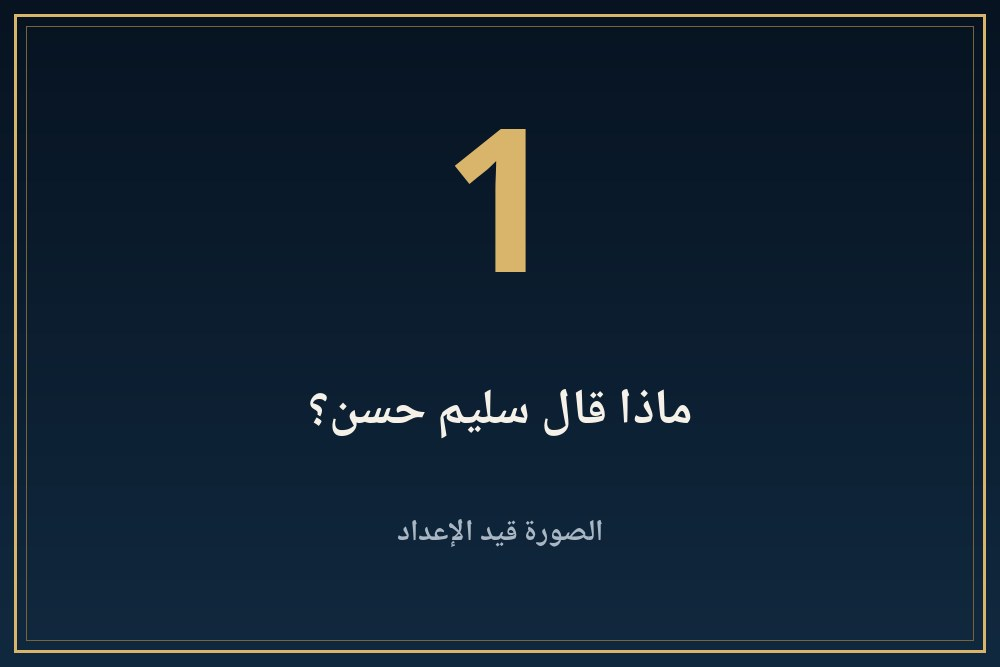
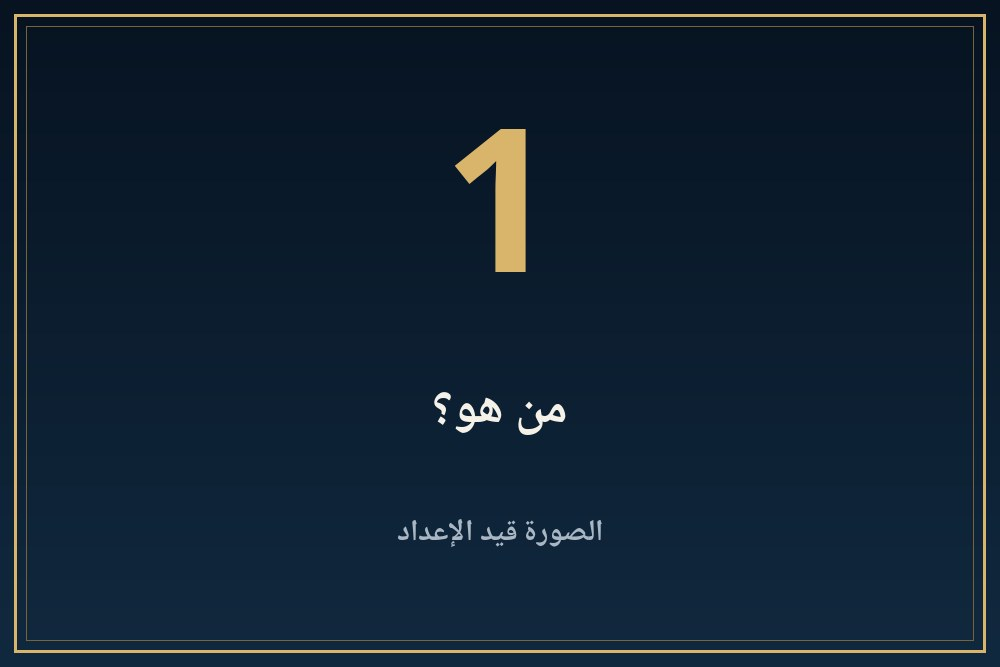
King 027: rebuilt from updated content (placeholders, audio pending)

Changed region(s): [[0.31, 0.5697, 0.713, 0.6597]]

diff --git a/kings/027-nfr-ef-ra/index.html b/kings/027-nfr-ef-ra/index.html
@@ -324,7 +324,7 @@ html[dir=ltr] #panav.open,#pash[dir=ltr] #panav.open{border-right:0!important;bo
 <div class="row"><span class="bdg v">موثّق</span><span>مذكور في مصدر مرقّم يمكن فتحه من قسم المراجع.</span></div>
 <div class="row"><span class="bdg d">محل خلاف</span><span>الصفحة نفسها تذكر أن الباحثين أو المصادر مختلفون فيه.</span></div>
 <div class="row"><span class="bdg u">لم يُتحقق منه</span><span>الصفحة تذكر أنه من مصدر واحد ولم يُتحقق منه في مصدر ثانٍ.</span></div></div>
-<div class="band" aria-hidden="true"></div><details class="acc k1" id="s1"><summary><img class="bnr" src="banners/b01.jpg?v=1" alt="" width="1000" height="667"><span class="n">1</span><span class="t">ماذا قال سليم حسن؟</span><span class="ch"></span></summary><div class="body"><button class="lbtn" type="button" disabled aria-disabled="true" style="opacity:.55;cursor:default"><svg viewBox="0 0 24 24" fill="currentColor" aria-hidden="true"><path d="M7 4.5v15a1 1 0 001.5.86l12-7.5a1 1 0 000-1.72l-12-7.5A1 1 0 007 4.5z"/></svg><span>التعليق الصوتي قريبًا</span></button><p><span class="bdg v">موثّق</span> يذكر سليم حسن (ج1 ص261) ملكين باسم «شبسس كا رع» و«نفر ف رع» ويقول: «لا نعرف عنهما شيئا». وهذه حدود ما قرأناه عنه.<sup><a href="#r1">[1]</a></sup></p></div></details><details class="acc k2" id="s2"><summary><img class="bnr" src="banners/b02.jpg?v=1" alt="" loading="lazy" width="1000" height="667"><span class="n">2</span><span class="t">لماذا الصفحة قصيرة؟</span><span class="ch"></span></summary><div class="body"><button class="lbtn" type="button" disabled aria-disabled="true" style="opacity:.55;cursor:default"><svg viewBox="0 0 24 24" fill="currentColor" aria-hidden="true"><path d="M7 4.5v15a1 1 0 001.5.86l12-7.5a1 1 0 000-1.72l-12-7.5A1 1 0 007 4.5z"/></svg><span>التعليق الصوتي قريبًا</span></button><p><span class="bdg u">لم يُتحقق منه</span> لم نجد في الكتب المصرية التي قرأناها نصا أطول عن نفر إف رع، ولم نقرأ بعد ما كتبه الأجانب عنه، فلا نذكر مدة حكمه ولا مقبرته.</p></div></details><details class="acc k3" id="s3"><summary><img class="bnr" src="banners/b03.jpg?v=1" alt="" loading="lazy" width="1000" height="667"><span class="n">3</span><span class="t">ما لا نعرفه</span><span class="ch"></span></summary><div class="body"><button class="lbtn" type="button" disabled aria-disabled="true" style="opacity:.55;cursor:default"><svg viewBox="0 0 24 24" fill="currentColor" aria-hidden="true"><path d="M7 4.5v15a1 1 0 001.5.86l12-7.5a1 1 0 000-1.72l-12-7.5A1 1 0 007 4.5z"/></svg><span>التعليق الصوتي قريبًا</span></button><p><span class="bdg u">لم يُتحقق منه</span> مدة الحكم، النسب، الآثار، سبب قلة الآثار. وسنضيف ما نقرؤه من مصادر موثوقة.</p></div></details><details class="acc k4" id="s4"><summary><img class="bnr" src="banners/b04.jpg?v=1" alt="" loading="lazy" width="1000" height="667"><span class="n">4</span><span class="t">من قال ماذا؟</span><span class="ch"></span></summary><div class="body"><button class="lbtn" type="button" disabled aria-disabled="true" style="opacity:.55;cursor:default"><svg viewBox="0 0 24 24" fill="currentColor" aria-hidden="true"><path d="M7 4.5v15a1 1 0 001.5.86l12-7.5a1 1 0 000-1.72l-12-7.5A1 1 0 007 4.5z"/></svg><span>التعليق الصوتي قريبًا</span></button><p><span class="bdg d">محل خلاف</span> ترتيب هذا الملك بين نفر إر كا رع ونيوسر رع: سليم حسن (ص261) يذكره بعد «شبسس كا رع» وقبل «نيوسر رع». ولم نقرأ ترتيبا ثانيا.<sup><a href="#r1">[1]</a></sup></p></div></details><details class="acc k4" id="refs"><summary><img class="bnr" src="banners/b05.jpg?v=1" alt="" loading="lazy" width="1000" height="667"><span class="n">5</span><span class="t">المراجع</span><span class="ch"></span></summary><div class="body"><button class="lbtn" type="button" disabled aria-disabled="true" style="opacity:.55;cursor:default"><svg viewBox="0 0 24 24" fill="currentColor" aria-hidden="true"><path d="M7 4.5v15a1 1 0 001.5.86l12-7.5a1 1 0 000-1.72l-12-7.5A1 1 0 007 4.5z"/></svg><span>التعليق الصوتي قريبًا</span></button><p><b>مصادر فتحتُ صفحاتها وقرأتها:</b></p><ol><li id="r1" dir="auto">سليم حسن، موسوعة مصر القديمة، ج1، الفصل 15: <a dir="ltr" style="display:inline-block;overflow-wrap:anywhere" href="https://archive.org/details/20201104_20201104_1559" rel="noopener" target="_blank">archive.org/details/20201104_20201104_1559</a></li></ol><div class="flag"><b>تنبيه:</b> عدد المصادر المصرية المفتوحة لهذه الصفحة واحد فقط. لا نضيف تفاصيل لم تثبت في مصدر فتحناه وقرأنا نصه، وحيث يختلف المصدران ننسب كل رأي لصاحبه.</div></div></details></article><aside class="abt" aria-label="عن هذه الصفحة"><h3>عن هذه الصفحة</h3><ul><li><b>المحتوى</b><span>جزء من موسوعة بر عنخ التعليمية. التواريخ والتفسيرات وفق المراجع المتاحة، وقد تختلف التفاصيل بين الدراسات.</span></li><li><b>الصور</b><span>صور هذه الصفحة أماكن حجز مؤقتة إلى أن تُضاف الصور الفنية.</span></li><li><b>الصوت</b><span>التعليق الصوتي قيد الإعداد.</span></li></ul></aside><a class="back" href="/kings/">← تصفح المزيد</a><a class="back" href="/">العودة إلى الرئيسية</a><dialog id="lb"><img alt=""><p></p><button type="button">إغلاق</button></dialog>
+<div class="band" aria-hidden="true"></div><details class="acc k1" id="s1"><summary><img class="bnr" src="banners/b01.jpg?v=1" alt="" width="1000" height="667"><span class="n">1</span><span class="t">من هو؟</span><span class="ch"></span></summary><div class="body"><button class="lbtn" type="button" disabled aria-disabled="true" style="opacity:.55;cursor:default"><svg viewBox="0 0 24 24" fill="currentColor" aria-hidden="true"><path d="M7 4.5v15a1 1 0 001.5.86l12-7.5a1 1 0 000-1.72l-12-7.5A1 1 0 007 4.5z"/></svg><span>التعليق الصوتي قريبًا</span></button><p><span class="bdg v">موثّق</span> يقول سليم حسن (ص261) عن شبسس كا رع ونفر إف رع: «لا نعرف عنهما شيئا». ويقول كتاب الميت (ص33) إن اسم سلفه شبسس كا رع (أي «المميّز كاؤه رع») ورد على قطعة صغيرة واحدة من عهده، وإن الحفائر التشيكية في أبو صير أعطت مادة غنية عن الملك نفر إف رع (راني إف رع) منها أرشيف بردي وتماثيل وتماثيل صغيرة.<sup><a href="#r1">[1]</a><a href="#r3">[3]</a></sup></p></div></details><details class="acc k2" id="s2"><summary><img class="bnr" src="banners/b02.jpg?v=1" alt="" loading="lazy" width="1000" height="667"><span class="n">2</span><span class="t">من قال ماذا؟</span><span class="ch"></span></summary><div class="body"><button class="lbtn" type="button" disabled aria-disabled="true" style="opacity:.55;cursor:default"><svg viewBox="0 0 24 24" fill="currentColor" aria-hidden="true"><path d="M7 4.5v15a1 1 0 001.5.86l12-7.5a1 1 0 000-1.72l-12-7.5A1 1 0 007 4.5z"/></svg><span>التعليق الصوتي قريبًا</span></button><p><span class="bdg d">محل خلاف</span> يقول سليم حسن (ص261) إننا لا نعرف شيئا عنه، بينما يشير كتاب الميت (ص33) إلى أرشيف بردي وتماثيل من حفائر تشيكية. فالفرق في تاريخ الكتابتين: سليم حسن قبل هذه الاكتشافات، والكتاب بعدها.<sup><a href="#r1">[1]</a><a href="#r3">[3]</a></sup></p></div></details><details class="acc k3" id="s3"><summary><img class="bnr" src="banners/b03.jpg?v=1" alt="" loading="lazy" width="1000" height="667"><span class="n">3</span><span class="t">في القائمة</span><span class="ch"></span></summary><div class="body"><button class="lbtn" type="button" disabled aria-disabled="true" style="opacity:.55;cursor:default"><svg viewBox="0 0 24 24" fill="currentColor" aria-hidden="true"><path d="M7 4.5v15a1 1 0 001.5.86l12-7.5a1 1 0 000-1.72l-12-7.5A1 1 0 007 4.5z"/></svg><span>التعليق الصوتي قريبًا</span></button><p><span class="bdg v">موثّق</span> يُدرج نور الدين (ص714) اسمه الحوري «نفر خعو» في قائمة الأسرة الخامسة، لكن رقم مدة حكمه مشوه في نسختنا فلا نذكره. ويضعه جدول كتاب الميت (ص49) بين أصحاب أهرام أبو صير.<sup><a href="#r2">[2]</a><a href="#r3">[3]</a></sup></p></div></details><details class="acc k4" id="s4"><summary><img class="bnr" src="banners/b04.jpg?v=1" alt="" loading="lazy" width="1000" height="667"><span class="n">4</span><span class="t">ما لا نعرفه</span><span class="ch"></span></summary><div class="body"><button class="lbtn" type="button" disabled aria-disabled="true" style="opacity:.55;cursor:default"><svg viewBox="0 0 24 24" fill="currentColor" aria-hidden="true"><path d="M7 4.5v15a1 1 0 001.5.86l12-7.5a1 1 0 000-1.72l-12-7.5A1 1 0 007 4.5z"/></svg><span>التعليق الصوتي قريبًا</span></button><p><span class="bdg u">لم يُتحقق منه</span> لا نعرف مدة حكمه، ولم نقرأ تفاصيل الأرشيف البردي، ولا ما إن كان هرمه اكتمل، ولا نذكر ما لم نقرأه.</p></div></details><details class="acc k1" id="s5"><summary><img class="bnr" src="banners/b05.jpg?v=1" alt="" loading="lazy" width="1000" height="667"><span class="n">5</span><span class="t">المصادر التي تنقصنا</span><span class="ch"></span></summary><div class="body"><button class="lbtn" type="button" disabled aria-disabled="true" style="opacity:.55;cursor:default"><svg viewBox="0 0 24 24" fill="currentColor" aria-hidden="true"><path d="M7 4.5v15a1 1 0 001.5.86l12-7.5a1 1 0 000-1.72l-12-7.5A1 1 0 007 4.5z"/></svg><span>التعليق الصوتي قريبًا</span></button><p><span class="bdg u">لم يُتحقق منه</span> لم نقرأ بعد الدراسات التشيكية التي ينقل عنها كتاب الميت، فلا نذكر ما فيها. وسنضيفها حين تتوفر.<sup><a href="#r3">[3]</a></sup></p></div></details><details class="acc k4" id="refs"><summary><img class="bnr" src="banners/b06.jpg?v=1" alt="" loading="lazy" width="1000" height="667"><span class="n">6</span><span class="t">المراجع</span><span class="ch"></span></summary><div class="body"><button class="lbtn" type="button" disabled aria-disabled="true" style="opacity:.55;cursor:default"><svg viewBox="0 0 24 24" fill="currentColor" aria-hidden="true"><path d="M7 4.5v15a1 1 0 001.5.86l12-7.5a1 1 0 000-1.72l-12-7.5A1 1 0 007 4.5z"/></svg><span>التعليق الصوتي قريبًا</span></button><p><b>مصادر فتحتُ صفحاتها وقرأتها:</b></p><ol><li id="r1" dir="auto">سليم حسن، موسوعة مصر القديمة، ج1، الفصل 15: <a dir="ltr" style="display:inline-block;overflow-wrap:anywhere" href="https://archive.org/details/20201104_20201104_1559" rel="noopener" target="_blank">archive.org/details/20201104_20201104_1559</a></li><li id="r2" dir="auto">عبد الحليم نور الدين، آثار وحضارة مصر القديمة ج1، أرقام صفحات PDF: <a dir="ltr" style="display:inline-block;overflow-wrap:anywhere" href="https://archive.org/details/AAlexandrina-117303" rel="noopener" target="_blank">archive.org/details/AAlexandrina-117303</a></li><li id="r3" dir="auto">The Metropolitan Museum of Art, Egyptian Art in the Age of the Pyramids, 1999 (فصول كوزلوف وأرنولد وزيجلر وجريمال): <a dir="ltr" style="display:inline-block;overflow-wrap:anywhere" href="https://www.metmuseum.org/met-publications/egyptian-art-in-the-age-of-the-pyramids" rel="noopener" target="_blank">www.metmuseum.org/met-publications/egyptian-art-in-the-age-of-the-pyramids</a></li></ol></div></details></article><aside class="abt" aria-label="عن هذه الصفحة"><h3>عن هذه الصفحة</h3><ul><li><b>المحتوى</b><span>جزء من موسوعة بر عنخ التعليمية. التواريخ والتفسيرات وفق المراجع المتاحة، وقد تختلف التفاصيل بين الدراسات.</span></li><li><b>الصور</b><span>صور هذه الصفحة أماكن حجز مؤقتة إلى أن تُضاف الصور الفنية.</span></li><li><b>الصوت</b><span>التعليق الصوتي قيد الإعداد.</span></li></ul></aside><a class="back" href="/kings/">← تصفح المزيد</a><a class="back" href="/">العودة إلى الرئيسية</a><dialog id="lb"><img alt=""><p></p><button type="button">إغلاق</button></dialog>
 <script>(function(){var A=function(){return document.querySelectorAll("details.acc")};
 document.getElementById("all").onclick=function(){A().forEach(function(d){d.open=true})};
 document.getElementById("none").onclick=function(){A().forEach(function(d){d.open=false})};
@@ -332,7 +332,7 @@ function go(h){var e=h&&document.getElementById(h.slice(1));if(!e)return;var d=e
 document.addEventListener("click",function(e){var a=e.target.closest&&e.target.closest('a[href^="#"]');if(a){go(a.getAttribute("href"))}});
 if(location.hash)go(location.hash);
 var d=document.getElementById("lb");if(!d||!d.showModal)return;var im=d.querySelector("img"),p=d.querySelector("p");document.addEventListener("click",function(e){var t=e.target;if(t.tagName=="IMG"&&t.closest(".fig")){im.src=t.src;im.alt=t.alt;p.textContent=t.closest("figure").querySelector("figcaption").innerText;d.showModal()}else if(t==d||t.tagName=="BUTTON"&&d.contains(t)){d.close()}})})();</script><div class="pbar" id="pbar"></div><div class="pl" id="pl" role="region" aria-label="مشغّل الاستماع"><div class="in"><button class="pp" id="pp" type="button" aria-label="تشغيل"><svg viewBox="0 0 24 24" fill="currentColor" aria-hidden="true"><path d="M7 4.5v15a1 1 0 001.5.86l12-7.5a1 1 0 000-1.72l-12-7.5A1 1 0 007 4.5z"/></svg></button><div class="mid"><div class="ttl"><span id="tt">استماع</span> <i>صوت اصطناعي</i></div><input id="sk" type="range" min="0" max="1000" value="0" aria-label="موضع التشغيل"><div class="tm"><span id="cur">0:00</span><span id="dur">0:00</span></div></div><div class="ex"><button id="bk" type="button" aria-label="رجوع 10 ثوانٍ">−10</button><button id="fw" type="button" aria-label="تقدم 10 ثوانٍ">+10</button><button id="sp" class="sp" type="button" aria-label="سرعة التشغيل">1×</button><button id="cl" type="button" aria-label="إغلاق المشغّل">✕</button></div><p class="err" id="er" role="alert" hidden>تعذر تحميل الملف الصوتي. حاول لاحقًا.</p></div><div aria-live="polite" id="st" style="position:absolute;left:-9999px"></div><audio id="au" preload="none"></audio></div></main><script>(function(){
-var S={"s1": ["ماذا قال سليم حسن؟", 1], "s2": ["لماذا الصفحة قصيرة؟", 1], "s3": ["ما لا نعرفه", 1], "s4": ["من قال ماذا؟", 1], "refs": ["المراجع", 1]},$=function(i){return document.getElementById(i)},au=$("au"),pl=$("pl"),pp=$("pp"),sk=$("sk"),P="<svg viewBox=\"0 0 24 24\" fill=\"currentColor\" aria-hidden=\"true\"><path d=\"M7 4.5v15a1 1 0 001.5.86l12-7.5a1 1 0 000-1.72l-12-7.5A1 1 0 007 4.5z\"/></svg>",Q="<svg viewBox=\"0 0 24 24\" fill=\"currentColor\" aria-hidden=\"true\"><rect x=\"5.5\" y=\"4\" width=\"4.5\" height=\"16\" rx=\"1.2\"/><rect x=\"14\" y=\"4\" width=\"4.5\" height=\"16\" rx=\"1.2\"/></svg>",cur=null,part=1,seeking=false;
+var S={"s1": ["من هو؟", 1], "s2": ["من قال ماذا؟", 1], "s3": ["في القائمة", 1], "s4": ["ما لا نعرفه", 1], "s5": ["المصادر التي تنقصنا", 1], "refs": ["المراجع", 1]},$=function(i){return document.getElementById(i)},au=$("au"),pl=$("pl"),pp=$("pp"),sk=$("sk"),P="<svg viewBox=\"0 0 24 24\" fill=\"currentColor\" aria-hidden=\"true\"><path d=\"M7 4.5v15a1 1 0 001.5.86l12-7.5a1 1 0 000-1.72l-12-7.5A1 1 0 007 4.5z\"/></svg>",Q="<svg viewBox=\"0 0 24 24\" fill=\"currentColor\" aria-hidden=\"true\"><rect x=\"5.5\" y=\"4\" width=\"4.5\" height=\"16\" rx=\"1.2\"/><rect x=\"14\" y=\"4\" width=\"4.5\" height=\"16\" rx=\"1.2\"/></svg>",cur=null,part=1,seeking=false;
 function fmt(t){if(!isFinite(t))return"0:00";var m=Math.floor(t/60),s=Math.floor(t%60);return m+":"+(s<10?"0":"")+s}
 function btns(){document.querySelectorAll(".lbtn").forEach(function(b){var on=b.dataset.s===cur&&!au.paused;b.classList.toggle("on",on);b.querySelector("span").textContent=on?"إيقاف مؤقت":(b.dataset.s===cur&&au.currentTime>1?"أكمل الاستماع":"استمع لهذا القسم");b.querySelector("svg").outerHTML=on?Q:P})}
 function ui(){var pa=au.paused;pp.innerHTML=pa?P:Q;pp.setAttribute("aria-label",pa?"تشغيل":"إيقاف مؤقت");btns()}
